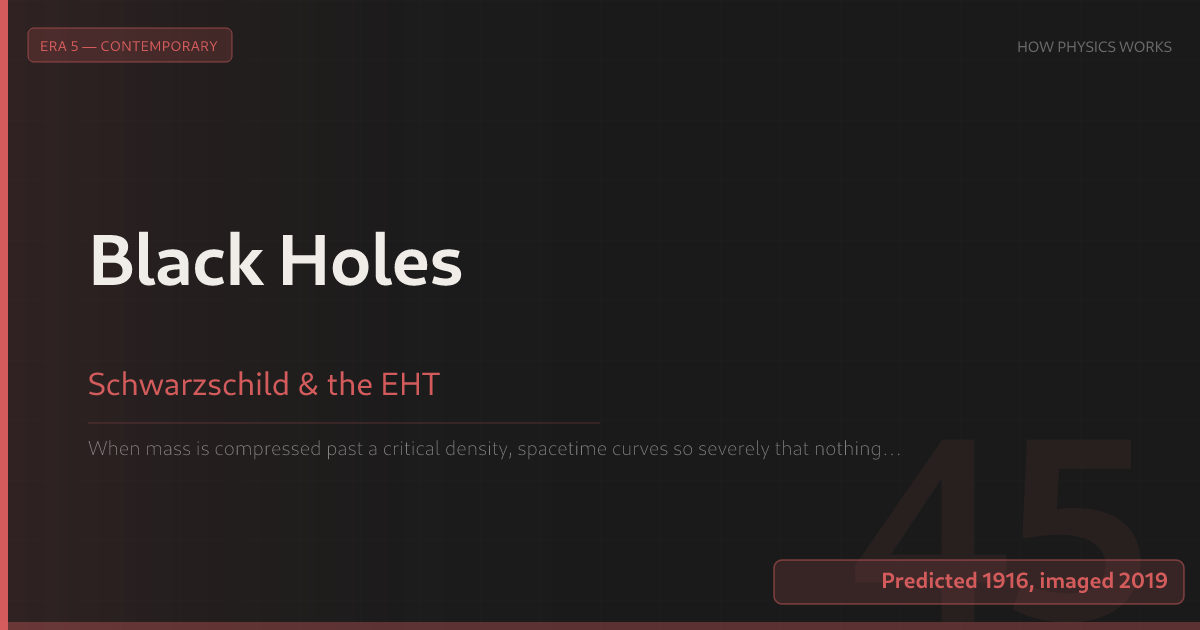
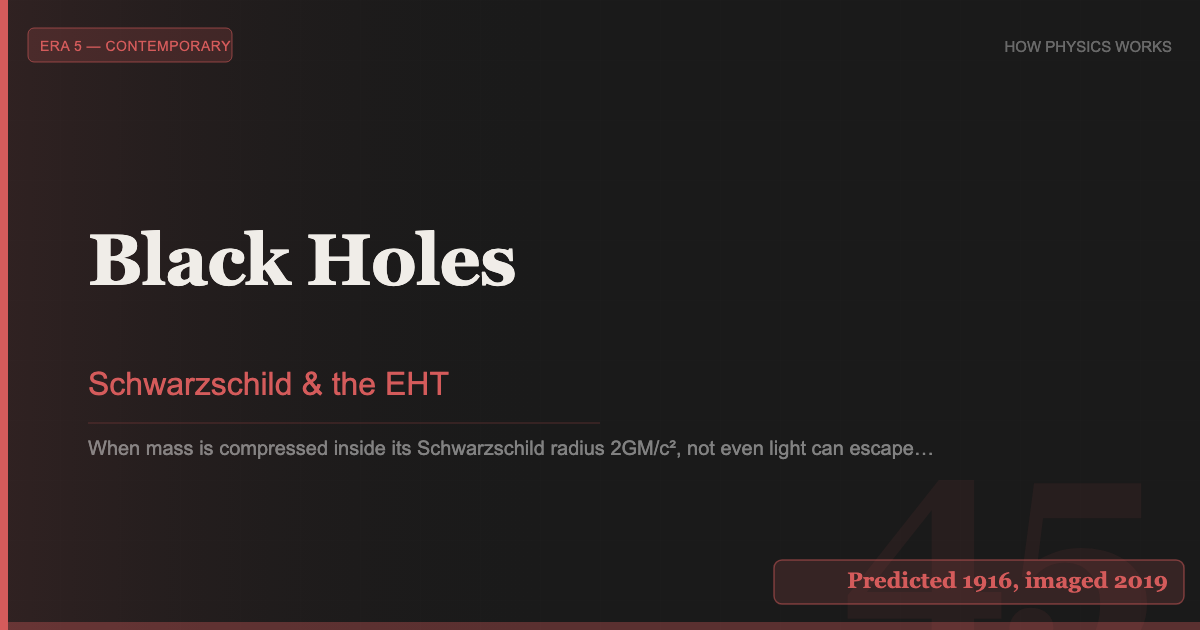
Referee fixes for stops 045 and 046: stops.json live, GW150914 credit, formula layout, canvas polish, wording

diff --git a/HowPhysicsWorks/stops/046-dark-matter/index.html b/HowPhysicsWorks/stops/046-dark-matter/index.html
@@ -61,7 +61,7 @@
   </header>
   <div class="stop-intro content-column">
     <p>
-      In 1933 Fritz Zwicky measured how fast the galaxies of the Coma cluster move and found them far too fast to be held together by the mass their light suggested<sup><a href="#src-1">[1]</a></sup>. Forty years later the same problem turned up inside single galaxies. Vera Rubin and Kent Ford measured the rotation of the Andromeda galaxy from its glowing gas clouds<sup><a href="#src-2">[2]</a></sup>; Albert Bosma followed the neutral hydrogen of spiral galaxies with radio telescopes, far beyond the edge of their starlight<sup><a href="#src-3">[3]</a></sup>; and Rubin, Ford and Norbert Thonnard measured 21 spirals<sup><a href="#src-4">[4]</a></sup>. In galaxy after galaxy the rotation speed stays high, the curve flat, far out where the stars and gas thin out. If gravity is Newton's, a flat curve needs mass that we do not see.
+      In 1933 Fritz Zwicky measured how fast the galaxies of the Coma cluster move and found them far too fast to be held together by the mass their light suggested<sup><a href="#src-1">[1]</a></sup>. Nearly forty years later the same problem turned up inside single galaxies. Vera Rubin and Kent Ford measured the rotation of the Andromeda galaxy from its glowing gas clouds<sup><a href="#src-2">[2]</a></sup>; Albert Bosma followed the neutral hydrogen of spiral galaxies with radio telescopes, far beyond the edge of their starlight<sup><a href="#src-3">[3]</a></sup>; and Rubin, Ford and Norbert Thonnard measured 21 spirals<sup><a href="#src-4">[4]</a></sup>. In galaxy after galaxy the rotation speed stays high, the curve flat, far out where the stars and gas thin out. If gravity is Newton's, a flat curve needs mass that we do not see.
     </p>
     <p>
       The simulation builds the rotation curve of the spiral galaxy NGC 3198 from its parts, and lays it over the curve astronomers observed. It starts with the stars and gas alone. Add a dark halo, adjust it until the curve fits, and watch what the fit can and cannot tell you.
@@ -130,26 +130,26 @@
     <p>where $M(&lt;r)$ is the mass inside the orbit. Outside most of the mass, $M$ stops growing and $v$ falls as $1/\sqrt{r}$, as the planets do around the Sun. A flat curve, $v$ constant, needs $M(&lt;r)$ to keep growing in proportion to $r$. The galaxy view on the left shows what that means in motion: the hollow circles go round at the observed speed, the filled dots at the model's. When the model is short of mass, the outer dots fall behind.</p>
 
     <h3>The Galaxy and Its Observed Curve</h3>
-    <p>NGC 3198 is a spiral galaxy whose rotation curve is unusually well measured and extends far beyond its stars, which made it a classic test case in the 1980s<sup><a href="#src-5">[5]</a></sup><sup><a href="#src-6">[6]</a></sup>. The 43 points in the plot are the observed curve as tabulated in the SPARC database of Lelli, McGaugh and Schombert<sup><a href="#src-7">[7]</a></sup>, from hydrogen-line and Hα velocities (they cite Begeman 1987 and 1991 and Daigle et al. 2006), with every radius placed at SPARC's distance of 13.8 Mpc from Cepheid stars. Older papers used a smaller distance, so their radii are smaller. The error bars are SPARC's random errors; they do not include the uncertainty in the galaxy's tilt. The table is copied into the page unchanged.</p>
+    <p>NGC 3198 is a spiral galaxy whose rotation curve is unusually well measured and extends far beyond its stars, which made it a classic test case in the 1980s<sup><a href="#src-5">[5]</a></sup><sup><a href="#src-6">[6]</a></sup>. The 43 points in the plot are the observed curve as tabulated in the SPARC database of Lelli, McGaugh and Schombert<sup><a href="#src-7">[7]</a></sup>, from hydrogen-line and Hα velocities (they cite Begeman 1987 and 1991 and Daigle et al. 2006), with every radius placed at SPARC's distance of 13.8 Mpc from Cepheid stars. Older papers used a smaller distance, so their radii are smaller. The error bars are SPARC's: the fit error combined with the difference between the two sides of the disk; they do not include the uncertainty in the galaxy's tilt. The table is copied into the page unchanged.</p>
 
     <h3>Building the Visible Galaxy</h3>
     <p>The model adds the squares of the speeds that each component would produce on its own:</p>
     <p style="overflow-x:auto;position:relative;">$$v^2 = v_{\text{bulge}}^2 + v_{\text{disk}}^2 + v_{\text{gas}}\lvert v_{\text{gas}}\rvert + v_{\text{halo}}^2$$</p>
     <p><strong>Stars.</strong> The stellar disk is a thin exponential disk with surface density $\Sigma(R) = \Sigma_0 e^{-R/R_d}$ and SPARC's scale length $R_d = 3.14$ kpc<sup><a href="#src-7">[7]</a></sup>. A flat disk does not pull like a point mass, and its exact rotation speed was worked out by Freeman<sup><a href="#src-8">[8]</a></sup>:</p>
-    <p style="overflow-x:auto;position:relative;">$$v_{\text{disk}}^2 = 4\pi G\Sigma_0 R_d\, y^2\left[I_0(y)K_0(y) - I_1(y)K_1(y)\right],\qquad y = \frac{R}{2R_d}$$</p>
-    <p>with $I_n$ and $K_n$ modified Bessel functions. It peaks at $2.2\,R_d$ about 8 % below the speed of a point with the same mass. The disk's mass is its 3.6 µm luminosity, $3.83 \times 10^{10}$ solar luminosities<sup><a href="#src-7">[7]</a></sup>, times the mass-to-light ratio $\Upsilon_\star$. Starlight does not tell us $\Upsilon_\star$ precisely; the default 0.5 is the value SPARC adopts at this wavelength<sup><a href="#src-7">[7]</a></sup>.</p>
+    <p style="overflow-x:auto;position:relative;font-size:0.82em;">$$v_{\text{disk}}^2 = 4\pi G\Sigma_0 R_d\, y^2\left[I_0(y)K_0(y) - I_1(y)K_1(y)\right]$$</p>
+    <p>with $y = R/(2R_d)$ and $I_n$, $K_n$ modified Bessel functions. It peaks at $2.2\,R_d$ about 8 % below the speed of a point with the same mass. The disk's mass is its 3.6 µm luminosity, $3.83 \times 10^{10}$ solar luminosities<sup><a href="#src-7">[7]</a></sup>, times the mass-to-light ratio $\Upsilon_\star$. Starlight does not tell us $\Upsilon_\star$ precisely; the default 0.5 is the value SPARC adopts at this wavelength<sup><a href="#src-7">[7]</a></sup>.</p>
     <p><strong>Gas.</strong> The gas contribution is SPARC's, computed from the observed map of neutral hydrogen and multiplied by 1.33 for helium<sup><a href="#src-7">[7]</a></sup>. It is not adjustable here. Near the centre it is slightly negative: a ring of gas outside an orbit pulls outward.</p>
     <p><strong>Bulge.</strong> SPARC finds no bulge in NGC 3198, so the default is zero. The slider adds a Hernquist bulge<sup><a href="#src-9">[9]</a></sup>, $v^2 = GM_b r/(r+a)^2$ with $a = 0.5$ kpc, for experiments.</p>
     <p>With stars and gas alone the model curve rises to about 100 km/s near 7 kpc and then falls; at 44 kpc it is 65 km/s against an observed 149 km/s. At $\Upsilon_\star = 0.5$ it lies below every observed point beyond 2.2 kpc. A heavier disk helps only near the centre: even at the slider's largest value, $\Upsilon_\star = 1.2$, the model is below every point beyond 10 kpc.</p>
 
     <h3>Adding a Dark Halo</h3>
     <p>Two halo shapes are offered. The pseudo-isothermal halo has a constant-density core, $\rho = \rho_0/[1 + (r/r_c)^2]$, used for NGC 3198 by van Albada and collaborators<sup><a href="#src-5">[5]</a></sup>:</p>
-    <p style="overflow-x:auto;position:relative;">$$v_{\text{halo}}^2 = v_\infty^2\left[1 - \frac{r_c}{r}\arctan\frac{r}{r_c}\right],\qquad v_\infty^2 = 4\pi G\rho_0 r_c^2$$</p>
-    <p>The NFW halo is the shape that dark-matter halos take in cold-dark-matter simulations of structure formation<sup><a href="#src-10">[10]</a></sup>, $\rho \propto 1/[(r/r_s)(1 + r/r_s)^2]$ with $r_s = r_{200}/c$:</p>
-    <p style="overflow-x:auto;position:relative;">$$v_{\text{halo}}^2 = V_{200}^2\,\frac{\ln(1+cx) - cx/(1+cx)}{x\left[\ln(1+c) - c/(1+c)\right]},\qquad x = \frac{r}{r_{200}},\quad r_{200} = \frac{V_{200}}{10\,H_0}$$</p>
-    <p>with $H_0 = 73$ km/s/Mpc, the value SPARC uses<sup><a href="#src-7">[7]</a></sup>. The fit quality is</p>
-    <p style="overflow-x:auto;position:relative;">$$\chi^2 = \sum_{i=1}^{43}\left(\frac{v_{\text{model}}(r_i) - v_i}{\sigma_i}\right)^2,\qquad \nu = N - k$$</p>
-    <p>with $k$ the number of halo parameters adjusted (2, or 0 with no halo). "Fit the halo" finds the two halo parameters that minimise $\chi^2$ for the stars and bulge you have set. At the default $\Upsilon_\star = 0.5$ the simulation's best pseudo-isothermal halo has $v_\infty = 143.8$ km/s and $r_c = 2.98$ kpc, with $\chi^2/\nu = 1.67$ and an rms difference of 4.9 km/s; its best NFW halo has $V_{200} = 114$ km/s and $c = 8.7$, with $\chi^2/\nu = 2.57$ and 8.1 km/s rms. Inside the last point at 44 kpc the fitted halo holds about $1.9 \times 10^{11}$ solar masses, roughly six times the stars and gas together. These are fits of this page's model, not values from the literature.</p>
+    <p style="overflow-x:auto;position:relative;">$$v_{\text{halo}}^2 = v_\infty^2\left[1 - \frac{r_c}{r}\arctan\frac{r}{r_c}\right]$$</p>
+    <p>where $v_\infty^2 = 4\pi G\rho_0 r_c^2$. The NFW halo is the shape that dark-matter halos take in cold-dark-matter simulations of structure formation<sup><a href="#src-10">[10]</a></sup>, $\rho \propto 1/[(r/r_s)(1 + r/r_s)^2]$ with $r_s = r_{200}/c$:</p>
+    <p style="overflow-x:auto;position:relative;">$$v_{\text{halo}}^2 = V_{200}^2\,\frac{\ln(1+cx) - cx/(1+cx)}{x\left[\ln(1+c) - c/(1+c)\right]}$$</p>
+    <p>with $x = r/r_{200}$, $r_{200} = V_{200}/(10\,H_0)$ and $H_0 = 73$ km/s/Mpc, the value SPARC uses<sup><a href="#src-7">[7]</a></sup>. The fit quality is</p>
+    <p style="overflow-x:auto;position:relative;">$$\chi^2 = \sum_{i=1}^{43}\left(\frac{v_{\text{model}}(r_i) - v_i}{\sigma_i}\right)^2$$</p>
+    <p>with $\nu = N - k$ and $k$ the number of halo parameters adjusted (2, or 0 with no halo). Press the fit button: it finds the two halo parameters that minimise $\chi^2$ for the stars and bulge you have set. At the default $\Upsilon_\star = 0.5$ the simulation's best pseudo-isothermal halo has $v_\infty = 143.8$ km/s and $r_c = 2.98$ kpc, with $\chi^2/\nu = 1.67$ and an rms difference of 4.9 km/s; its best NFW halo has $V_{200} = 114$ km/s and $c = 8.7$, with $\chi^2/\nu = 2.57$ and 8.1 km/s rms. Inside the last point at 44 kpc the fitted halo holds about $1.9 \times 10^{11}$ solar masses, roughly six times the stars and gas together. These are fits of this page's model, not values from the literature.</p>
 
     <h3>What the Curve Cannot Tell You</h3>
     <p>The rotation curve demands extra mass, at the latest from 10 kpc outward. It does not say how that mass is split between the disk and the halo, or what shape the halo has in the middle. Change $\Upsilon_\star$ and press "Fit the halo" again: with the pseudo-isothermal halo, $\Upsilon_\star = 0.35$, 0.5 and 0.65 give $\chi^2/\nu$ of 2.6, 1.7 and 1.7, each with a different core radius (2.0, 3.0 and 4.5 kpc). A heavier disk is traded for a halo with a larger core. Van Albada and collaborators pointed out exactly this for NGC 3198 in 1985<sup><a href="#src-5">[5]</a></sup>. Whether real halos have cores, as the pseudo-isothermal shape assumes, or the steep central cusps of the NFW shape is still argued over, galaxy by galaxy<sup><a href="#src-11">[11]</a></sup><sup><a href="#src-12">[12]</a></sup>.</p>

diff --git a/HowPhysicsWorks/stops/045-black-holes/index.html b/HowPhysicsWorks/stops/045-black-holes/index.html
@@ -115,7 +115,7 @@
     <p style="overflow-x:auto;position:relative;">$$\left(\frac{du}{d\varphi}\right)^2 = \frac{1}{b^2} - u^2\left(1 - \frac{2GM}{c^2}u\right)$$</p>
     <p>The ray turns around where the right-hand side reaches zero. The bracketed term $u^2(1 - 2GMu/c^2)$ has a maximum at $u = c^2/(3GM)$, that is at $r = 3GM/c^2 = 1.5\,r_s$. At that radius light can circle the hole: this is the photon sphere, the dashed gold circle. The orbit there is unstable: a ray with $b$ almost exactly at the critical value below circles the hole several times before it either leaves or falls in. The maximum value of the bracket is $(c^2/GM)^2/27$, so a ray turns around only if</p>
     <p style="overflow-x:auto;position:relative;">$$b > b_c = 3\sqrt{3}\,\frac{GM}{c^2} = \sqrt{27}\,\frac{GM}{c^2} \approx 2.598\,r_s$$</p>
-    <p>Every ray with a smaller impact parameter passes the photon sphere and crosses the horizon. Press "Skim the photon sphere" to set $b$ one part in $10^5$ above $b_c$: the ray is bent by about 637°, wrapping around the hole almost twice before it leaves. Moving the slider back and forth across 2.60 and 2.59 shows the switch from escaping to captured. Finding that switch by bisection with the simulation's own integrator gives $b_c = 2.5980762\,r_s$, equal to $\sqrt{27}\,GM/c^2$ to better than one part in a billion.</p>
+    <p>Every ray with a smaller impact parameter passes the photon sphere and crosses the horizon. Press "Skim the photon sphere" to set $b$ one part in $10^5$ above $b_c$: the ray is bent by about 637°, wrapping around the hole almost twice before it leaves. Moving the slider back and forth across 2.60 and 2.59 shows the switch from escaping to captured. Finding that switch by bisection with the simulation's own integrator gives $b_c = 2.5980762\,r_s$, equal to $\sqrt{27}\,GM/c^2$ to about one part in 10<sup>13</sup>.</p>
 
     <h3>The Shadow Is Not the Horizon</h3>
     <p>Run the light backwards. A camera far away looks towards the hole; each direction it looks in corresponds to a ray with some impact parameter. Rays with $b &lt; b_c$ end on the horizon, so nothing can arrive from those directions. The camera sees a dark disk of radius $b_c \approx 2.6\,r_s$, the shadow, set by the photon sphere and not by the horizon. The horizon, at $r_s$, is itself never seen. The beam view shows the same disk from the other side: every ray inside the red band is captured.</p>
@@ -128,7 +128,7 @@
     <p>the value Einstein obtained in 1915<sup><a href="#src-7">[7]</a></sup>. For light grazing the Sun it is 1.75″, and the 1919 eclipse expeditions found deflections consistent with it<sup><a href="#src-8">[8]</a></sup>. Press "Far ray" to set $b = 50\,r_s$: the simulation's ray bends by 2.362°, while the formula gives 2.292°. The 3 % difference is real, not numerical error. The next term in the expansion, $\tfrac{15\pi}{4}\,(GM/c^2 b)^2$<sup><a href="#src-9">[9]</a></sup>, accounts for it: at $b = 50\,r_s$ it adds 0.068° and brings the series within 0.003° of the integrated ray. The first-order formula is within 2 % of the exact bending only beyond about 75 $r_s$, and within 1 % beyond about 150 $r_s$. Near $b_c$ it fails completely: at $b = 3\,r_s$ the ray bends by 98.5°, against 38.2° from the formula.</p>
 
     <h3>When Black Holes Collide</h3>
-    <p>In 1971 Stephen Hawking proved that in classical general relativity the total area of black-hole horizons can never decrease<sup><a href="#src-10">[10]</a></sup>. For a non-spinning hole the area is $A = 4\pi r_s^2 = 16\pi G^2M^2/c^4$; for a spinning one it also depends on the spin. When two black holes merge, the remnant must have more horizon area than the two had together, even though the merger radiates away mass-energy as gravitational waves. LIGO and Virgo tested this with GW150914<sup><a href="#src-11">[11]</a></sup><sup><a href="#src-12">[12]</a></sup>. The much louder signal GW250114 confirmed that the remnant's area is larger than the sum of the initial areas to high credibility<sup><a href="#src-13">[13]</a></sup>.</p>
+    <p>In 1971 Stephen Hawking proved that in classical general relativity the total area of black-hole horizons can never decrease<sup><a href="#src-10">[10]</a></sup>. For a non-spinning hole the area is $A = 4\pi r_s^2 = 16\pi G^2M^2/c^4$; for a spinning one it also depends on the spin. When two black holes merge, the remnant must have more horizon area than the two had together, even though the merger radiates away mass-energy as gravitational waves. Isi and collaborators tested this with the public data of GW150914<sup><a href="#src-11">[11]</a></sup><sup><a href="#src-12">[12]</a></sup>, finding that the area had grown with 97 % probability. With the much louder signal GW250114, the LIGO, Virgo and KAGRA collaborations confirmed that the remnant's area is larger than the sum of the initial areas, to high credibility<sup><a href="#src-13">[13]</a></sup>.</p>
 
     <h3>What the Simulation Leaves Out</h3>
     <p>The black hole here does not spin. Real astrophysical black holes do, and a spinning (Kerr) black hole casts a shadow of slightly different size and, seen from most angles, slightly flattened shape. The picture is drawn in Schwarzschild's coordinates $r$ and $\varphi$ laid flat on the screen; that is a choice of map, not what an observer would photograph. The moving dot travels at a steady pace along the path so the shape is easy to follow; it does not show the timing of the light, which in these coordinates seems to slow down near the horizon. There is no glowing gas: the bright ring the EHT sees would come from light emitted around the hole and bent on its way to us, which needs a model of that gas.</p>

diff --git a/HowPhysicsWorks/stops/046-dark-matter/sim.js b/HowPhysicsWorks/stops/046-dark-matter/sim.js
@@ -399,7 +399,7 @@
       var r = 0.02 + 46 * k / 230;
       var v2 = fn(r);
       var v = v2 >= 0 ? Math.sqrt(v2) : -Math.sqrt(-v2);
-      var x = xMap(L, r), y = yMap(L, Math.max(-5, Math.min(V_TOP, v)));
+      var x = xMap(L, r), y = yMap(L, Math.max(-5, Math.min(V_TOP + 60, v)));
       if (k === 0) ctx.moveTo(x, y); else ctx.lineTo(x, y);
     }
     ctx.stroke();
@@ -435,6 +435,7 @@
 
     /* components */
     var pp = P[halo] || [0, 0];
+    ctx.save(); ctx.beginPath(); ctx.rect(L.px0, yMap(L, 200) - 2, L.px1 - L.px0, L.py1 - yMap(L, 200) + 2); ctx.clip();
     curve(L, function (r) { return v2Gas(r); }, COL.teal, 1.3, [2, 3]);
     curve(L, function (r) { return v2Disk(r, ups * L36, RD); }, COL.gold, 1.3, [6, 4]);
     if (showLight) {
@@ -451,6 +452,7 @@
     if (halo !== 'none') curve(L, function (r) { return v2Halo(r, halo, pp); }, COL.blue, 1.5, [7, 4]);
     curve(L, function (r) { return v2Baryons(r, v2Gas(r)); }, COL.bary, 1.2, null);
     curve(L, function (r) { return v2Baryons(r, v2Gas(r)) + v2Halo(r, halo, pp); }, COL.era, 2.4, null);
+    ctx.restore();
 
     /* observed points with error bars */
     for (var i = 0; i < N; i++) {

diff --git a/HowPhysicsWorks/stops/045-black-holes/sim.js b/HowPhysicsWorks/stops/045-black-holes/sim.js
@@ -197,7 +197,7 @@
     var cx = W / 2;
     var half = Math.min(W / 2 - 8, (H - top - bottom) / 2);
     var scale = half / viewRadius();
-    var cy = top + (H - top - bottom) / 2 + (farMode() ? 0.45 * bRs * R_S * scale : 0);
+    var cy = top + (H - top - bottom) / 2 + (farMode() ? 0.6 * bRs * R_S * scale : 0);
     return { cx: cx, cy: cy, scale: scale, top: top, bottom: bottom, narrow: narrow };
   }
 
